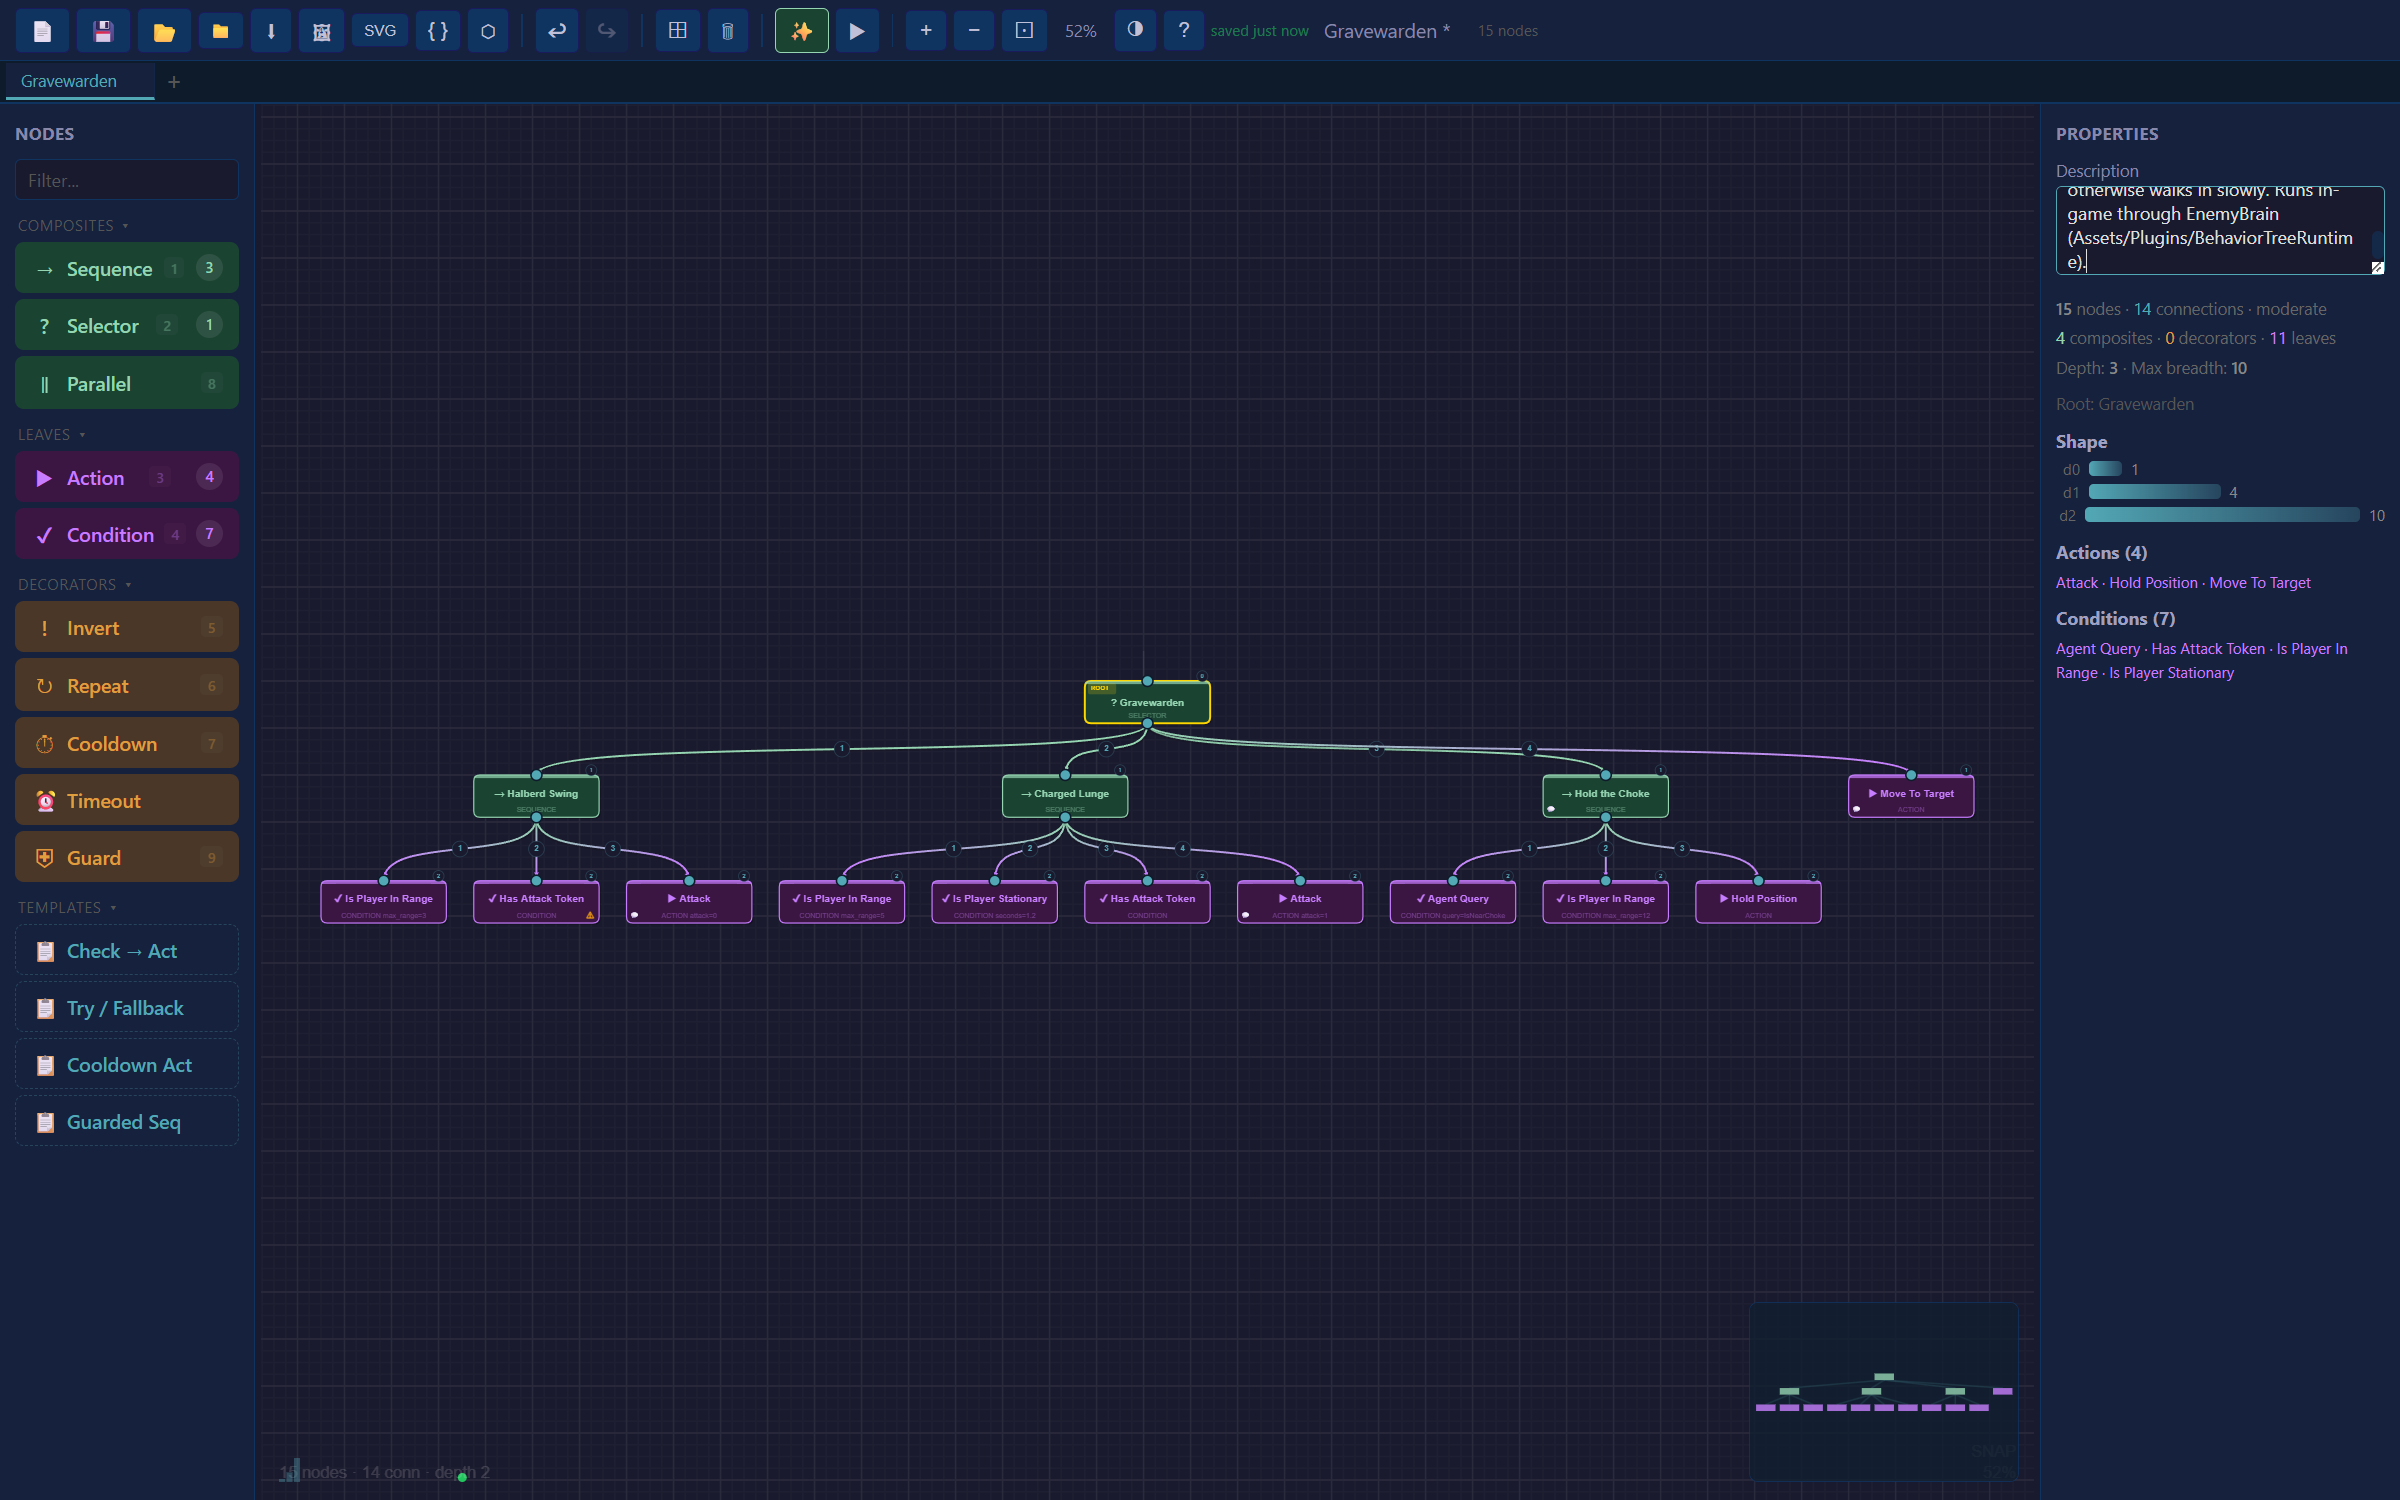
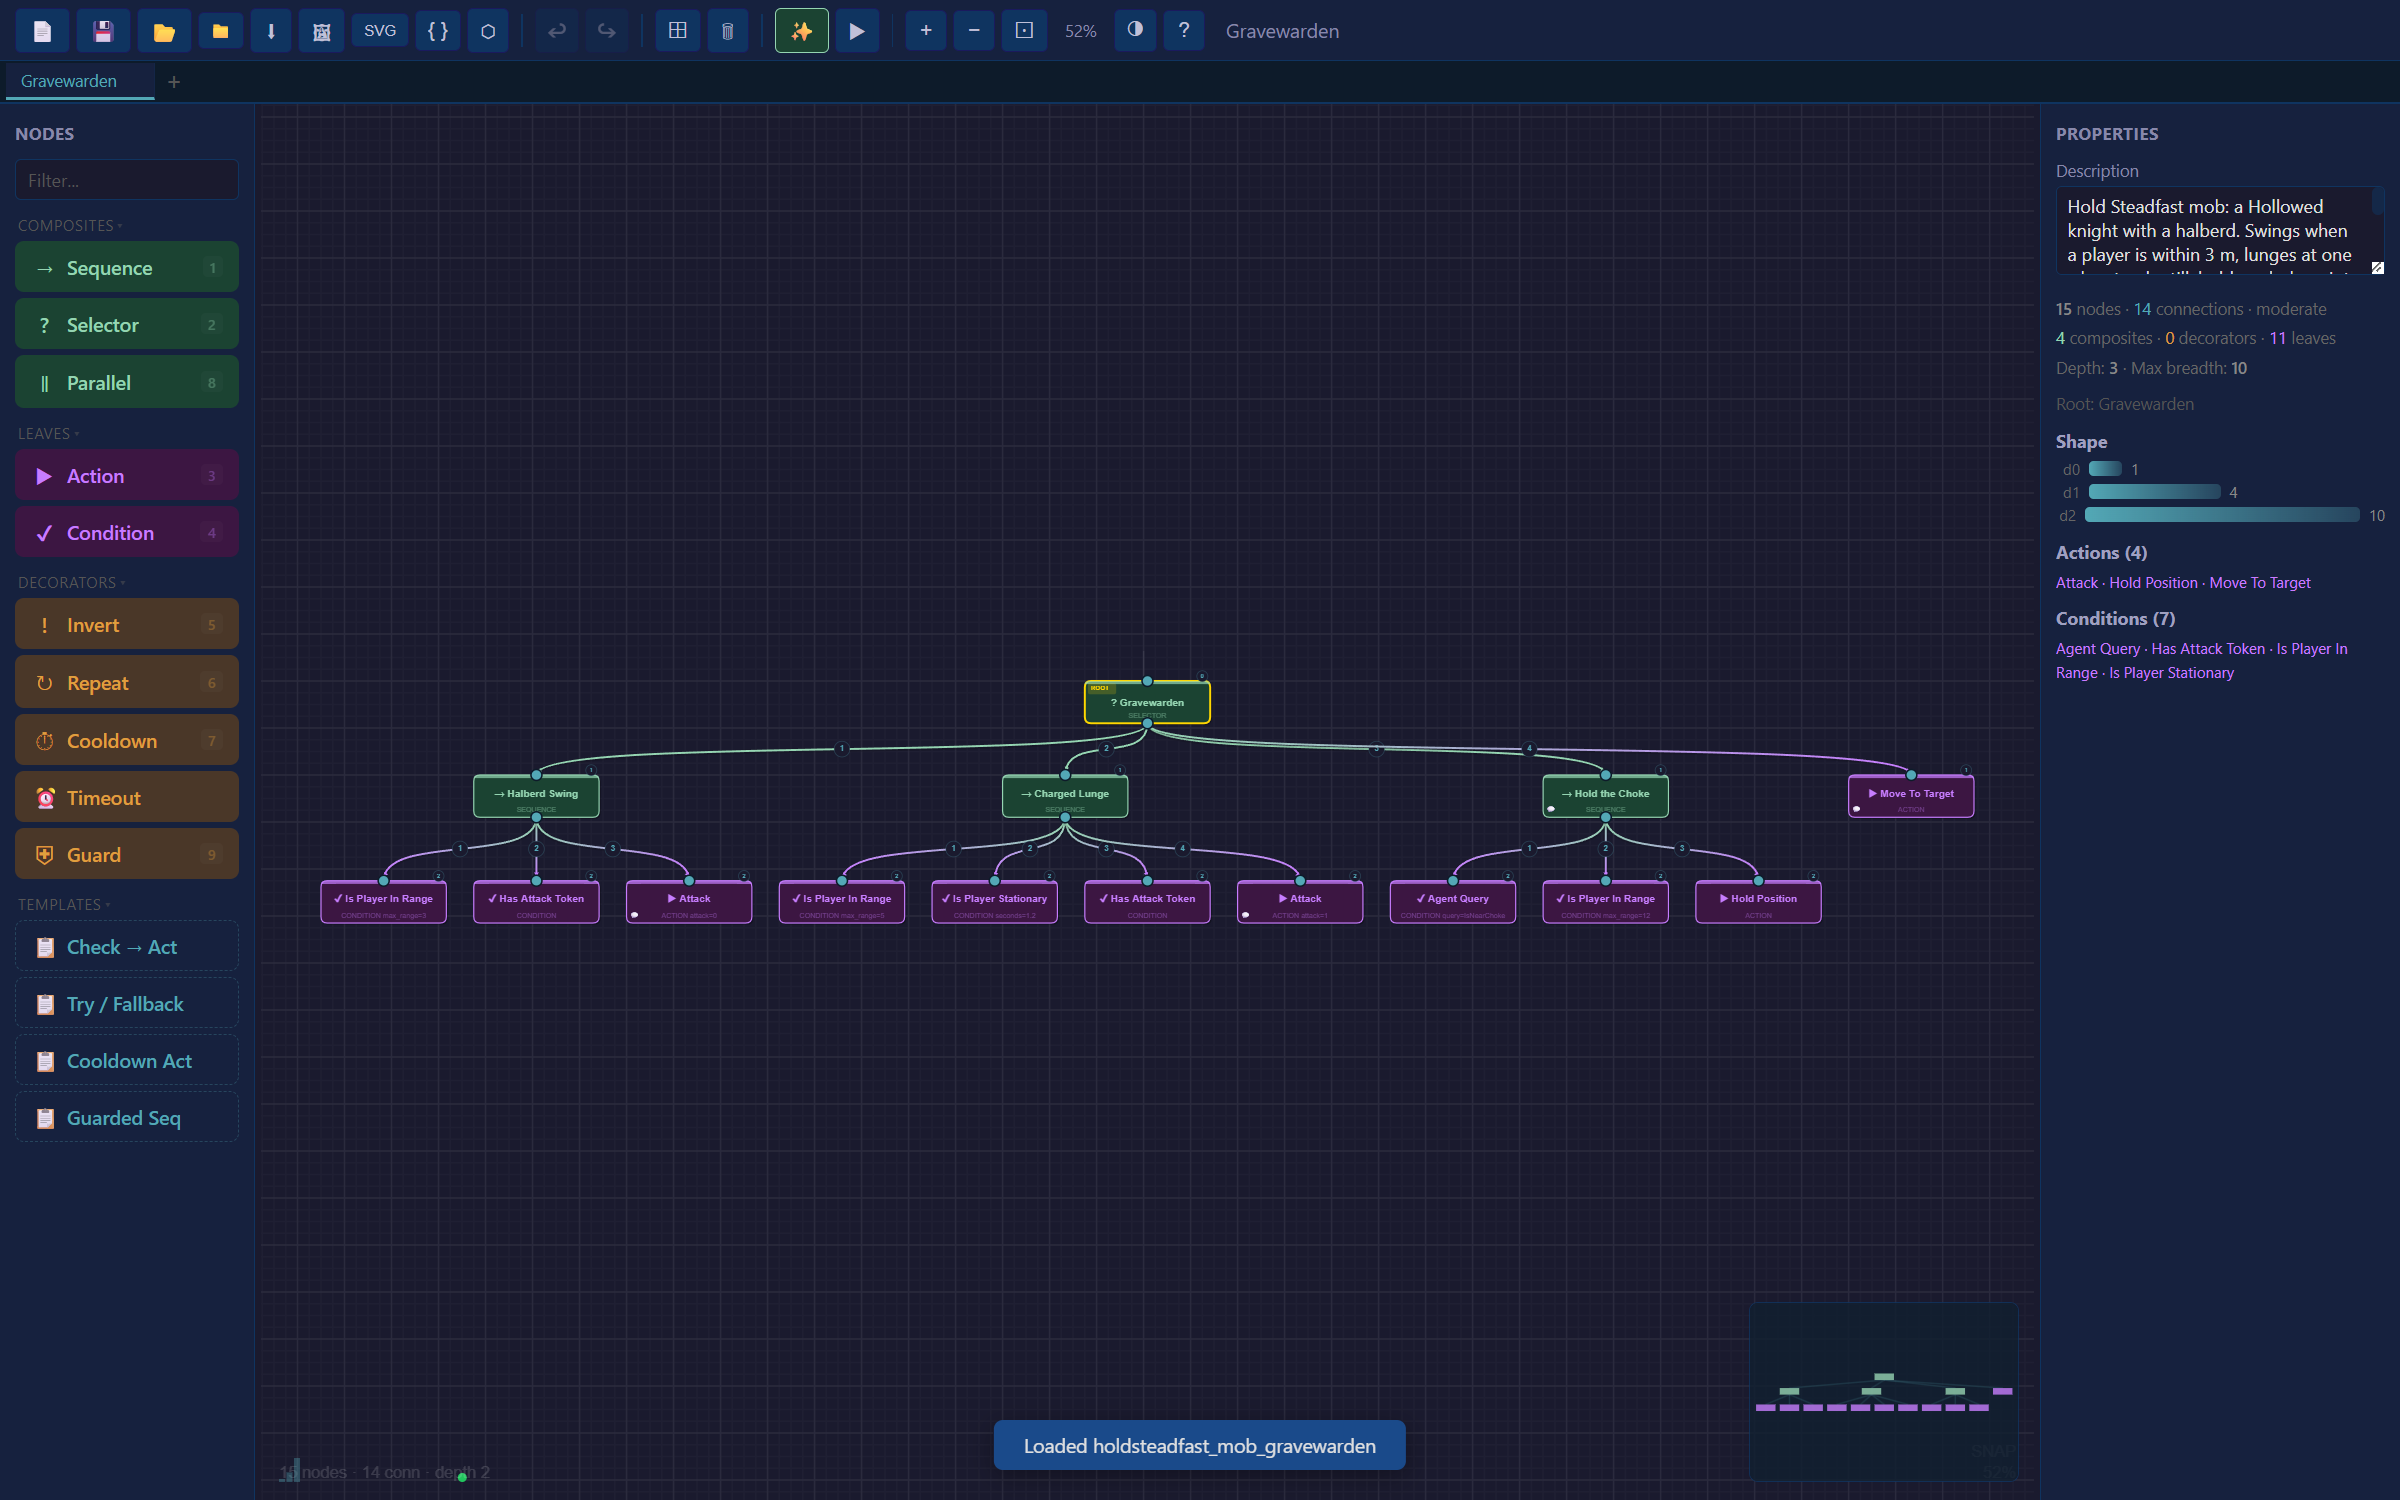
README: lead with Hold Steadfast, show design → play → replay
- Opens with the game the editor builds AI for, and three screenshots: the
  Gravewarden's tree in the editor, the Gravewarden fighting in Hold Steadfast,
  and its in-game recording scrubbed in the replay debugger.
- The workflow (design, save into Assets/, live reload in Play mode, replay),
  getting started for the desktop app, the browser and Unity.
- Feature list moved into a collapsible section and brought up to date.
- What was hard: runtime parity with the game (and the equivalence test that
  proves it), honest hot reload, the replay debugger, canvas performance.
- Architecture decisions: vanilla JS, Canvas, Tauri, trees as data.

diff --git a/README.md b/README.md
@@ -1,65 +1,139 @@
 # Behavior Tree Editor
 
-Web-based visual editor for authoring, debugging, and exporting behavior trees. No install, no build step — open `editor/index.html` in a browser or use the [live demo](https://hansvidaure24.github.io/Behavior-Tree-Editor/editor/).
+**Used to build the enemy AI in Hold Steadfast**, a co-op horde-defense game made in Unity. The Gravewarden, a
+halberd-wielding blocker, plays a tree designed in this editor. Twelve more of its enemy trees open here too (all but
+one, which uses a node type the editor doesn't have yet), and a test in the game proves each one makes exactly the
+decisions the game's original runtime makes.
 
-![Behavior Tree Editor](editor/icon.svg)
+| 1 Â· Design | 2 Â· Play | 3 Â· Replay |
+|---|---|---|
+| ![The Gravewarden's tree in the editor](docs/images/editor-gravewarden.png) | ![The Gravewarden fighting the squad in Hold Steadfast](docs/images/holdsteadfast-gravewarden-fight.png) | ![The in-game recording scrubbed to the Halberd Swing](docs/images/editor-replay-ingame.png) |
+| Branches named and laid out in the editor, saved straight into the Unity project's `Assets/`. | The enemy runs the `.bt.json`. Save again in Play mode and it switches trees within a second. | The game records every tick; drop the `.replay.json` on the editor to see why it swung. |
 
-![Shield Wall Defender — 38-node behavior tree](editor/image.png)
+A visual node-graph editor for game AI: author behavior trees, debug them with a replay timeline, and run them in
+Unity through a small C# runtime. Desktop app (Tauri) for Windows, or the same editor in the browser
+([live demo](https://hansvidaure24.github.io/Behavior-Tree-Editor/editor/)).
 
-## Features
+## The workflow
 
-- **Visual node-graph editor** — drag, connect, multi-select, auto-layout, minimap, 50+ keyboard shortcuts
-- **Replay debugger** — load recorded ticks, scrub back in time, heatmap overlay, flow particles, blackboard viewer
-- **Git-friendly serialization** — logic and layout stored separately; diffs make sense
-- **Cross-engine export** — JSON + runtime adapters for Unity (C#), Unreal (C++), Godot (GDScript)
-- **AI-assisted authoring** — describe behavior in plain English via local Ollama, or use regex pattern fallback
-- **PWA** — works offline, installable
+1. **Design** the tree in the editor. Leaves are named for game code (`Move To Target`, `Attack`) and carry
+   parameters (`stop_distance: 2.5`, `attack: 1`).
+2. **Save** with Ctrl+S. The desktop app writes `gravewarden.bt.json` (logic) and `gravewarden.bt.layout.json`
+   (positions) directly into the Unity project.
+3. **Play.** The runtime binds each leaf to code by name. In the Editor it watches the file, so saving in the editor
+   updates enemies that are already fighting, with Unity left in the background.
+4. **Replay.** `TickRecorder` captures what the tree did each tick (and the blackboard). The editor scrubs through it
+   on the same tree, with heatmaps and per-node timelines.
 
-## Quick Start
+## Getting started
 
-```
-git clone https://github.com/hansvidaure24/Behavior-Tree-Editor.git
-open editor/index.html
-```
-
-Or deploy the `editor/` folder to any static host (GitHub Pages, S3, Netlify).
-
-## Engine Integration
-
-Export a `.bt.json` file from the editor, then drop the matching adapter into your project:
-
-| Engine | Adapter | Runtime |
-|--------|---------|---------|
-| Unity | `adapters/unity/` | Full C# runtime with Blackboard, TickRecorder, MiniJson |
-| Unreal | `adapters/unreal/` | C++ headers for all node types |
-| Godot | `adapters/godot/` | GDScript runtime for all node types |
-
-## Replay Workflow
-
-1. In your game, use the adapter's `TickRecorder` to capture per-tick node statuses
-2. Export as `.replay.json` (see `schemas/replay.schema.json` for format)
-3. Drag the file into the editor or use the replay button
-4. Scrub the timeline, inspect blackboard state, see heatmap of visit frequency
-
-## Validation
+**Desktop app** (needs Node, Rust, the Visual Studio C++ build tools, and the WebView2 runtime that ships with Windows):
 
 ```bash
-python validate.py examples/*.bt.json
+npm install
+npm run tauri build
 ```
 
-Use in CI or as a pre-commit hook to catch structural errors (cycles, orphans, missing children, invalid types).
+This produces `src-tauri/target/release/bt-editor.exe` and an NSIS installer in `src-tauri/target/release/bundle/nsis/`.
+For development, run `npm run tauri dev`.
 
-## File Format
+**Browser:** open the [live demo](https://hansvidaure24.github.io/Behavior-Tree-Editor/editor/), or serve `editor/` with any
+static server. No build step is needed there; the editor is plain ES modules.
 
-- `*.bt.json` — tree logic (nodes, connections, parameters). No coordinates.
-- `*.layout.json` — node positions. Separate file so layout changes don't pollute logic diffs.
-- `*.replay.json` — recorded tick data for the replay debugger.
+**Unity:** copy [`adapters/unity`](adapters/unity) into `Assets/Plugins/`, add *Behavior Tree Runner* to an agent, and
+bind its actions. *Export â†’ Unity C# Adapter* generates the bindings component for a tree. Details:
+[adapters/unity/README.md](adapters/unity/README.md).
 
-JSON Schemas in `schemas/`.
+<details>
+<summary><b>Features</b></summary>
 
-## AI Generation (Optional)
+- **Visual node-graph editor**: drag, connect, multi-select, auto-layout, minimap, tabs, outline, command palette,
+  50+ keyboard shortcuts
+- **Replay debugger**: load recorded ticks, scrub back in time, heatmap overlay, flow particles, blackboard viewer,
+  per-node status timeline
+- **Desktop app**: native open/save dialogs, files linked to tabs, outside changes reloaded, atomic writes an engine
+  can watch safely
+- **Unity runtime**: selector/sequence/parallel, invert/repeat/cooldown/timeout/guard, name-based bindings with node
+  parameters, committed (non-interruptible) actions, debug logging, hot reload, tick recording
+- **Git-friendly serialization**: logic and layout stored separately, so diffs make sense
+- **Cross-engine export**: JSON plus runtime adapters for Unity (C#), Unreal (C++), Godot (GDScript)
+- **Validation** in the editor and as a CLI for CI (`python validate.py examples/`)
+- **AI-assisted authoring**: describe behavior in plain English via local [Ollama](https://ollama.ai), or fall back to
+  fuzzy template search and built-in patterns
+- **PWA**: the browser build works offline
 
-If [Ollama](https://ollama.ai) is running locally (`localhost:11434`), the editor will use it to generate trees from plain English descriptions. Without Ollama, a regex pattern fallback handles common behaviors.
+</details>
+
+## Examples
+
+[`examples/holdsteadfast/`](examples/holdsteadfast) holds Hold Steadfast's enemy trees, from the Gravewarden (with
+its layout and an in-game replay) to the 39-node Pale Warden boss. The empty canvas offers them first.
+[`examples/`](examples) has generic trees (guard patrol, stealth assassin, shield wall, ...).
+
+## What was hard
+
+**Making the Unity runtime behave exactly like the game's own.** Hold Steadfast already had a behavior tree runtime
+with careful semantics:
+- Selectors pre-empt (and abort) lower branches.
+- Sequences re-check their conditions while an action runs, but don't re-run finished actions.
+- Attacks are committed: once started, the tree never interrupts them.
+
+The first adapter got all of this subtly wrong and failed silently: unbound actions "succeeded" and guards ignored their
+parameters. The rewrite matches those semantics, and the integration keeps the game's own leaf nodes. A test then runs
+every game tree through both runtimes against the same scripted world for thousands of ticks, with staggers included,
+and diffs every command the enemy gives. A deliberately changed tree fails the test at tick 83. That test is the reason
+"behaves as designed" is a claim and not a hope.
+
+**Hot reload without lying.** Unity re-imports a changed asset only when its window regains focus, and a file being
+written can be read half-finished. The editor writes through a temp file and a rename. The runtime reads the file
+itself, and only once it has stopped changing. A broken file is reported and the running tree keeps going.
+
+**The replay debugger.** Statuses are only meaningful against the exact tree that produced them. The recorder keys
+every tick by node id, and marks nodes that didn't run as *skipped* rather than leaving last tick's status behind. The
+editor overlays each tick, a visit heatmap and per-node timelines on the live canvas while you scrub.
+
+**Canvas performance.** Everything draws in one `requestAnimationFrame` loop on a HiDPI-scaled canvas:
+- nodes and connections outside the viewport are culled;
+- the minimap redraws every third frame;
+- per-frame bookkeeping (who has a parent, what is collapsed) is O(n), not O(nÂ²).
+
+That is what lets the editor simply redraw everything every frame, replay overlays and particles included, instead
+of tracking what changed.
+
+## Architecture decisions
+
+- **Vanilla JS, no framework.** The editor is about 10k lines of ES modules with JSDoc types, checked by
+  `tsc --checkJs`. With no framework there is no build step for the web version, no dependency churn, and nothing between
+  the code and the canvas. Vite only bundles it for the desktop app.
+- **Canvas, not DOM/SVG.** A tree is hundreds of moving shapes and curves, plus replay heat, particles and
+  animations, redrawn every frame. One canvas with culling is cheaper and simpler than reconciling a DOM node per shape,
+  and hit-testing is straightforward geometry.
+- **Tauri, not Electron.** It uses the WebView2 runtime already on Windows instead of shipping Chromium: the app is a
+  9 MB exe and a 2.5 MB installer. The Rust side adds only what a browser can't do (native dialogs, writing anywhere
+  the user picks, file watching), so the same frontend still runs as a web page.
+- **Trees are data.** `.bt.json` holds logic only and `.bt.layout.json` holds positions, so moving a node never
+  shows up as a logic diff. Runtimes interpret the data; leaves bind to game code by name, and the parameters on a
+  node reach that code.
+
+## Project layout
+
+| Path | What |
+|---|---|
+| `editor/` | The editor (ES modules; `app.js` wires `canvas`, `panels`, `dialogs`, `file-io`, `toolbar`, ...) |
+| `src-tauri/` | Desktop shell (Tauri v2): window, dialog and fs plugins, capabilities |
+| `adapters/unity/` | C# runtime: `BehaviorTree`, `BehaviorTreeRunner`, `TickRecorder`, EditMode tests |
+| `adapters/unreal/`, `adapters/godot/` | C++ / GDScript runtimes |
+| `schemas/` | JSON Schemas for `.bt.json`, `.bt.layout.json`, `.replay.json` |
+| `validate.py`, `server/` | Tree validator CLI; Python data model with tests |
+
+CI (`.github/workflows/ci.yml`) validates every example tree, runs the Python tests, builds the frontend and
+compile-checks the desktop app.
+
+## File format
+
+- `*.bt.json`: tree logic (nodes, children, parameters), no coordinates
+- `*.bt.layout.json`: node positions
+- `*.replay.json`: recorded ticks for the replay debugger
 
 ## License
 
